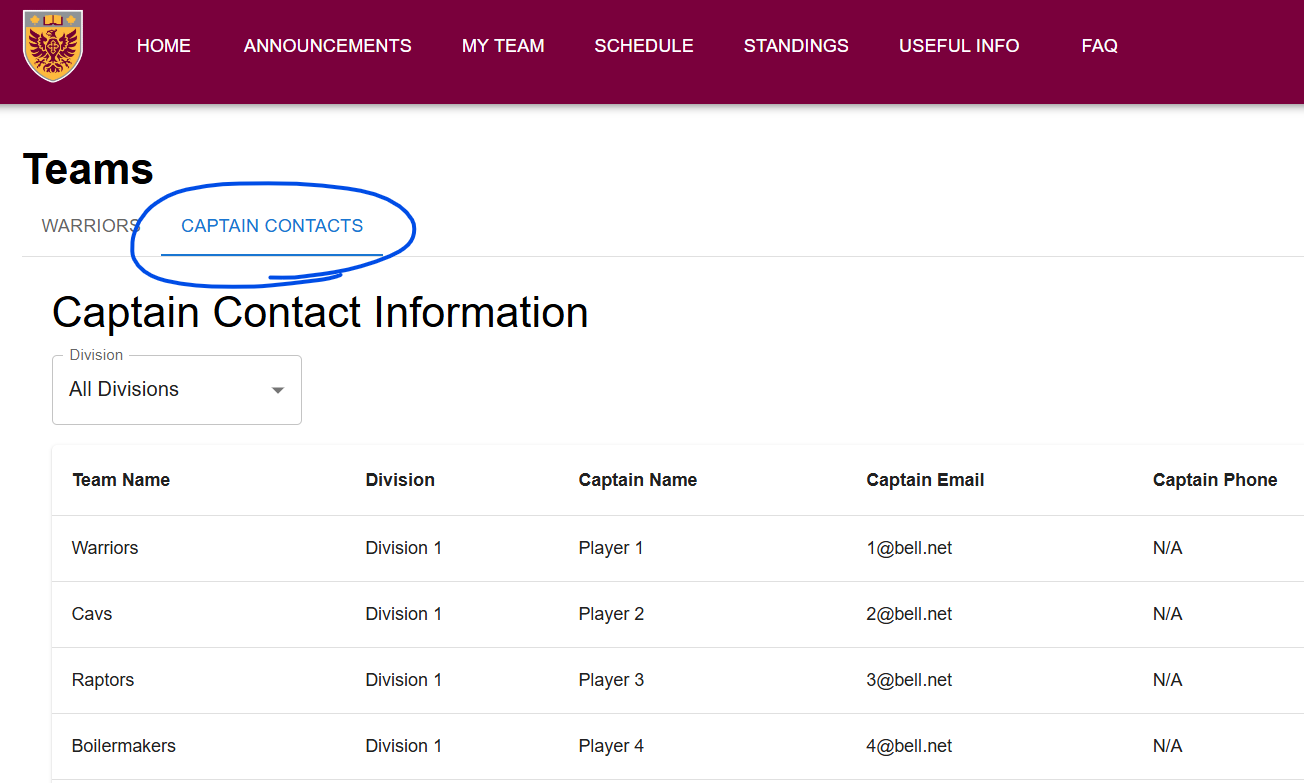
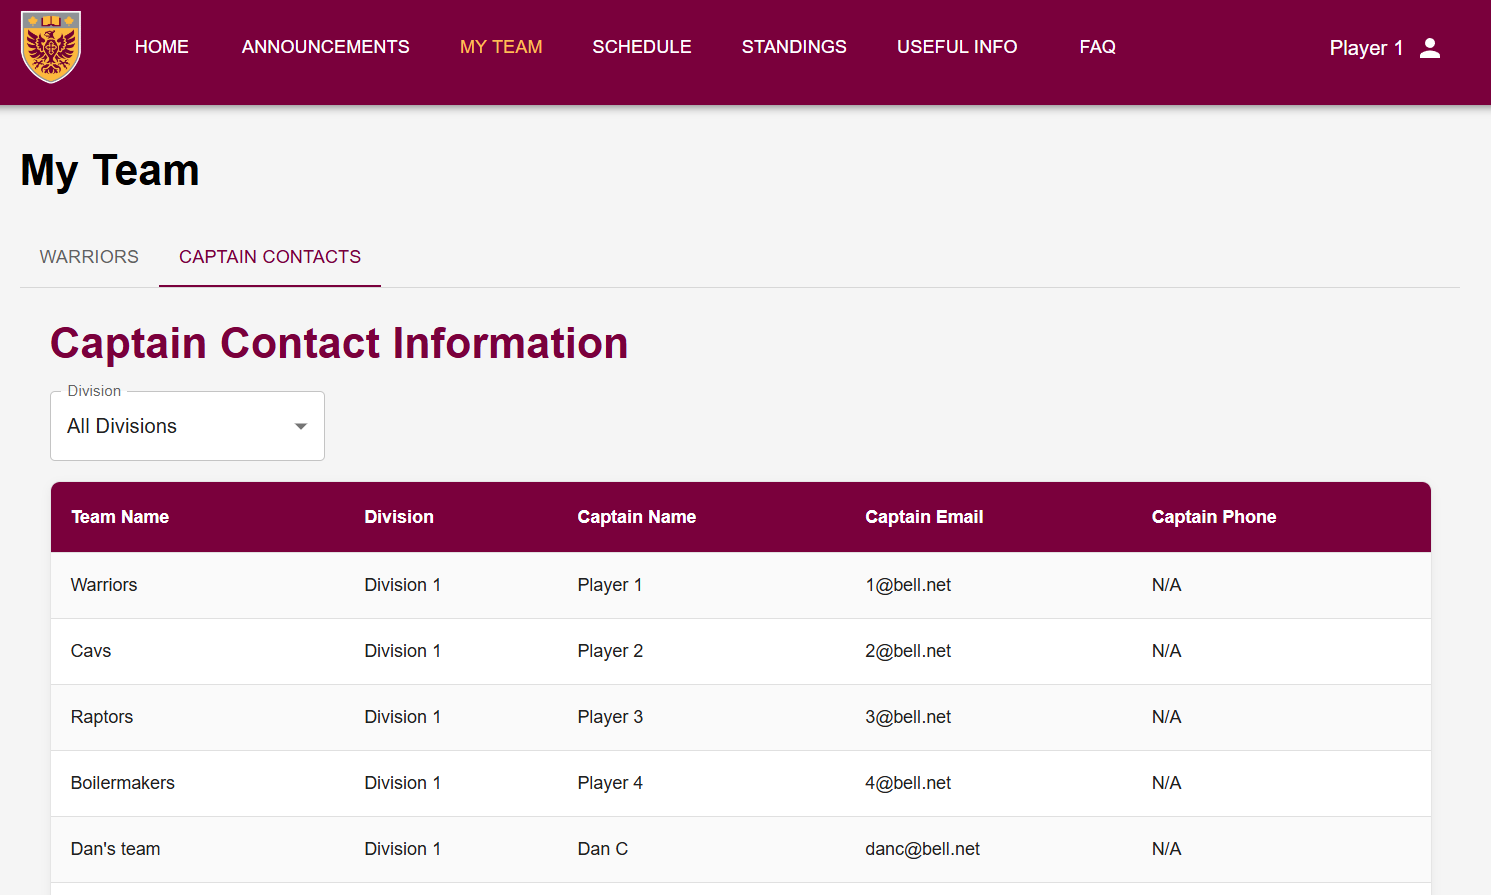
changes

diff --git a/src/frontend/src/views/DocumentationPage.jsx b/src/frontend/src/views/DocumentationPage.jsx
@@ -7,6 +7,7 @@ import inviteplayers3 from "../assets/documentation/inviteplayers3.png"
 import inviteplayers4 from "../assets/documentation/inviteplayers4.png"
 import inviteplayers5 from "../assets/documentation/inviteplayers5.png"
 import registerteam1 from "../assets/documentation/registerteam1.png"
+import registerteam2 from "../assets/documentation/registerteam2.png"
 import acceptinvite1 from "../assets/documentation/acceptinvite1.png"
 import acceptinvite2 from "../assets/documentation/acceptinvite2.png"
 import submitscores1 from "../assets/documentation/submitscores1.png"
@@ -17,15 +18,22 @@ import reschedule1 from "../assets/documentation/reschedule1.png"
 import reschedule2 from "../assets/documentation/reschedule2.png"
 import reschedule3 from "../assets/documentation/reschedule3.png"
 import reschedule4 from "../assets/documentation/reschedule4.png"
-import reschedule5 from "../assets/documentation/reschedule5.png"
-import reschedule6 from "../assets/documentation/reschedule6.png"
-import reschedule7 from "../assets/documentation/reschedule7.png"
-import reschedule8 from "../assets/documentation/reschedule8.png"
-import reschedule9 from "../assets/documentation/reschedule9.png"
+import respond1 from "../assets/documentation/respond1.png"
+import respond2 from "../assets/documentation/respond2.png"
+import respond3 from "../assets/documentation/respond3.png"
+import respond4 from "../assets/documentation/respond4.png"
+import respond5 from "../assets/documentation/respond5.png"
 import captains1 from "../assets/documentation/captains1.png"
 import captains2 from "../assets/documentation/captains2.png"
-import contacts1 from "../assets/documentation/contacts1.png"
-import contacts2 from "../assets/documentation/contacts2.png"
+import team1 from "../assets/documentation/team1.png"
+import team2 from "../assets/documentation/team2.png"
+import profile1 from "../assets/documentation/profile1.png"
+import profile2 from "../assets/documentation/profile2.png" 
+import profile3 from "../assets/documentation/profile3.png"
+import schedule1 from "../assets/documentation/schedule1.png"
+import schedule2 from "../assets/documentation/schedule2.png"
+import schedule3 from "../assets/documentation/schedule3.png"
+import schedule4 from "../assets/documentation/schedule4.png"
 
 export default function DocumentationPage() {
     return (
@@ -48,7 +56,13 @@ export default function DocumentationPage() {
             <a href="#accept-team-invite" className="text-blue-600 hover:underline">Accept Team Invite</a>
         </li>
         <li>
-            <a href="#contact-information" className="text-blue-600 hover:underline">Contact Information</a>
+            <a href="#team-roster" className="text-blue-600 hover:underline">Team Roster and Information</a>
+        </li>
+        <li>
+            <a href="#schedule" className="text-blue-600 hover:underline">Schedule</a>
+        </li>
+        <li>
+            <a href="#edit-profile" className="text-blue-600 hover:underline">Edit Profile</a>
         </li>
     </ul>
 
@@ -82,11 +96,17 @@ export default function DocumentationPage() {
 
 <h5 id="register-team" className="text-4xl font-bold mb-4">Register Team</h5>
     <p>Navigate to the home page to register your team for the desired season.</p>
-    <p>The registering player will become the captain of their team. Keep in mind, accounts can only belong on one team.</p>
-    <p>Ongoing seasons can also be viewed here.</p>
     <img 
         src={registerteam1} 
         alt="registerteam1" 
+        className="w-full mb-4" 
+        style={{ width: "70%", height: "auto", border: "4px solid black" }} 
+    />
+    <p>The registering player will become the captain of their team. Keep in mind, accounts can only belong on one team.</p>
+    <p>Ongoing seasons can also be viewed here.</p>
+    <img 
+        src={registerteam2} 
+        alt="registerteam2" 
         className="w-full mb-4" 
         style={{ width: "70%", height: "auto", border: "4px solid black" }} 
     />
@@ -95,7 +115,7 @@ export default function DocumentationPage() {
     <hr style={{ border: "1px solid #000", margin: "20px 0" }} />
 
 <h5 id="accept-team-invite" className="text-4xl font-bold mb-4">Accept Team Invite</h5>
-<p>Players can accept team invites by navigating to the profile page.</p>
+<p>Players can accept team invites by navigating to the my team page.</p>
     <img 
         src={acceptinvite1} 
         alt="acceptinvite1" 
@@ -112,19 +132,85 @@ export default function DocumentationPage() {
 
  {/* Divider Line */}
  <hr style={{ border: "1px solid #000", margin: "20px 0" }}/>
- <h5 id="contact-information" className="text-4xl font-bold mb-4">Contact Information</h5>
+ <h5 id="team-roster" className="text-4xl font-bold mb-4">Team Roster and Contact</h5>
 
 <p>Navigate to the my team page.</p>
         <img 
-                    src={contacts1} 
-                    alt="contacts1" 
+                    src={team1} 
+                    alt="team1" 
                     className="w-full mb-4" 
                     style={{ width: "51%", height: "auto", border: "4px solid black" }} 
                 />
-<p>Scroll down. Here, the team roster includes the email contact for all your teammates.</p>
+<p>Scroll down. Here, the team roster includes the email contact for all your teammates. Phone number is optional.</p>
       <img 
-                    src={contacts2} 
-                    alt="contacts2" 
+                    src={team2} 
+                    alt="team2" 
+                    className="w-full mb-4" 
+                    style={{ width: "51%", height: "auto", border: "4px solid black" }} 
+                />
+
+ {/* Divider Line */}
+ <hr style={{ border: "1px solid #000", margin: "20px 0" }}/>
+ <h5 id="schedule" className="text-4xl font-bold mb-4">Schedule</h5>
+
+ <p>Navigate to the schedule page.</p>
+        <img 
+                    src={schedule1} 
+                    alt="schedule1" 
+                    className="w-full mb-4" 
+                    style={{ width: "51%", height: "auto", border: "4px solid black" }} 
+                />
+
+<p>The weekly schedule view displays your games in a weekly format</p>
+        <img 
+                    src={schedule2} 
+                    alt="schedule2" 
+                    className="w-full mb-4" 
+                    style={{ width: "51%", height: "auto", border: "4px solid black" }} 
+                />
+
+<p>The team schedule view displays your games in a monthly format.</p>
+        <img 
+                    src={schedule3} 
+                    alt="schedule3" 
+                    className="w-full mb-4" 
+                    style={{ width: "51%", height: "auto", border: "4px solid black" }} 
+                />
+
+<p>The league schedule view displays all games in your divison in a monthly format</p>
+        <img 
+                    src={schedule4} 
+                    alt="schedule4" 
+                    className="w-full mb-4" 
+                    style={{ width: "51%", height: "auto", border: "4px solid black" }} 
+                />
+
+
+
+ {/* Divider Line */}
+ <hr style={{ border: "1px solid #000", margin: "20px 0" }}/>
+ <h5 id="edit-profile" className="text-4xl font-bold mb-4">Edit Profile</h5>
+
+ <p>Navigate to the profile page</p>
+        <img 
+                    src={profile1} 
+                    alt="profile1" 
+                    className="w-full mb-4" 
+                    style={{ width: "51%", height: "auto", border: "4px solid black" }} 
+                />
+
+<p>Click "edit" and proceed to make your desired changes.</p>
+        <img 
+                    src={profile2} 
+                    alt="profile2" 
+                    className="w-full mb-4" 
+                    style={{ width: "51%", height: "auto", border: "4px solid black" }} 
+                />
+
+<p>Click "done" to finalize changes.</p>
+        <img 
+                    src={profile3} 
+                    alt="profile3" 
                     className="w-full mb-4" 
                     style={{ width: "51%", height: "auto", border: "4px solid black" }} 
                 />
@@ -217,14 +303,16 @@ export default function DocumentationPage() {
                         className="w-full mb-4" 
                         style={{ width: "51%", height: "auto", border: "4px solid black" }} 
                     />
-                <p>Click "next" to see the available reschedule slots for next week.</p>
+                <p>In the weekly schedule view, you will notice a reschedule button.</p>
+                <p>Choose your desired game to reschedule.</p>
                   <img 
                         src={reschedule2} 
                         alt="reschedule2" 
                         className="w-full mb-4" 
                         style={{ width: "51%", height: "auto", border: "4px solid black" }} 
                     />
-                 <p>Click "reschedule."</p>
+                 <p>In the league schedule view, you will also notice a reschedule button.</p>
+                 <p>Choose your desired game to reschedule.</p>
                   <img 
                         src={reschedule3} 
                         alt="reschedule3" 
@@ -232,6 +320,7 @@ export default function DocumentationPage() {
                         style={{ width: "51%", height: "auto", border: "4px solid black" }} 
                     />
                 <p>Select any dates you would like to reschedule to (maroon = selected) and submit.</p>
+                <p>You can select as many options as you want.</p>
                   <img 
                         src={reschedule4} 
                         alt="reschedule4" 
@@ -245,36 +334,36 @@ export default function DocumentationPage() {
         <p>The captain is responsible for responding to reschedule requests.</p>
         <p>Navigate to the my team page.</p>
                 <img 
-                        src={reschedule5} 
-                        alt="reschedule1" 
+                        src={respond1} 
+                        alt="respond1" 
                         className="w-full mb-4" 
                         style={{ width: "51%", height: "auto", border: "4px solid black" }} 
                     />
         <p>You will find reschedule requests in the scheduling notifications section of the page. Select a notification to read.</p>
                                   <img 
-                        src={reschedule6} 
-                        alt="reschedule1" 
+                        src={respond2} 
+                        alt="respond2" 
                         className="w-full mb-4" 
                         style={{ width: "51%", height: "auto", border: "4px solid black" }} 
                     />
         <p>Here, we can see game date proposals from the other team.</p>
                                   <img 
-                        src={reschedule7} 
-                        alt="reschedule1" 
+                        src={respond3} 
+                        alt="respond3" 
                         className="w-full mb-4" 
                         style={{ width: "51%", height: "auto", border: "4px solid black" }} 
                     />
         <p>You can agree to one of the game date proposals by clicking on a date and confirming.</p>
                                   <img 
-                        src={reschedule8} 
-                        alt="reschedule1" 
+                        src={respond4} 
+                        alt="respond4" 
                         className="w-full mb-4" 
                         style={{ width: "51%", height: "auto", border: "4px solid black" }} 
                     />
         <p>You can also deny all game date proposals by selecting "none of these work."</p>
                                         <img 
-                        src={reschedule9} 
-                        alt="reschedule1" 
+                        src={respond5} 
+                        alt="respond5" 
                         className="w-full mb-4" 
                         style={{ width: "51%", height: "auto", border: "4px solid black" }} 
                     />
